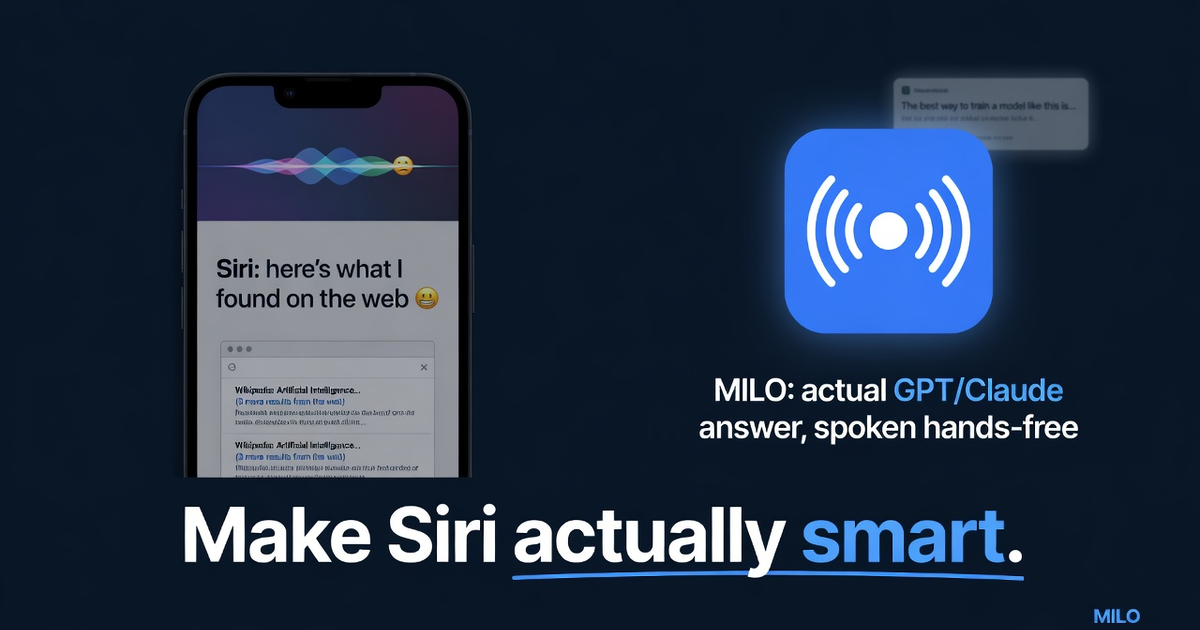
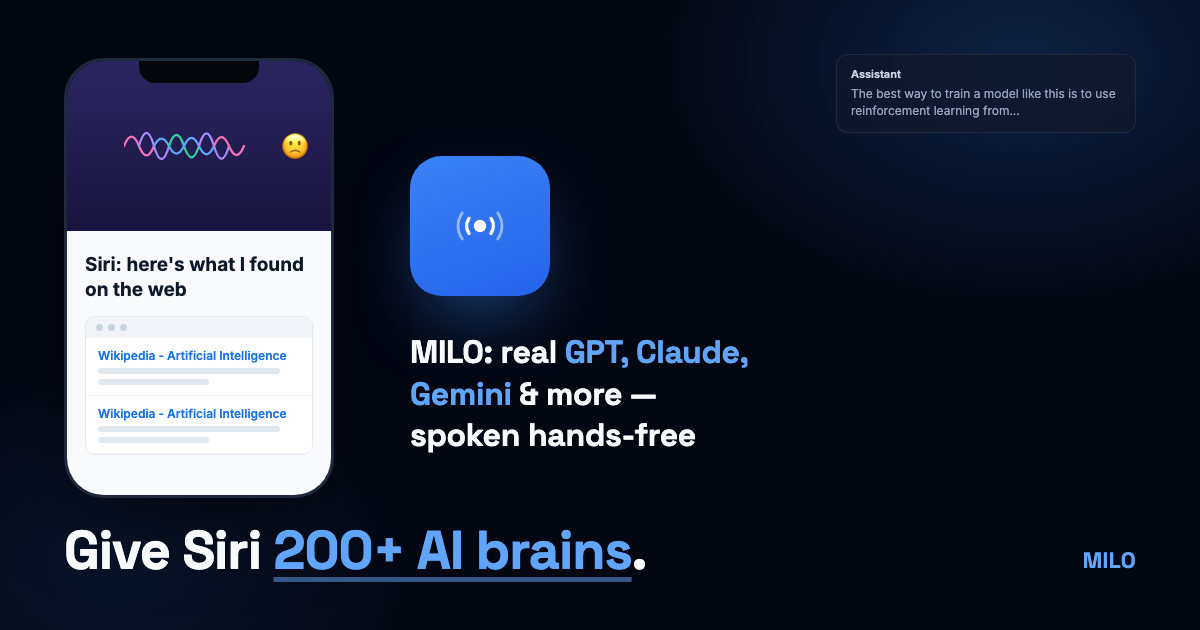
fix(og): update og-image to match current 200+ models messaging (#15)
The image still said "actual GPT/Claude answer" and "Make Siri
actually smart", both superseded by the current hero copy
("Give Siri 200+ AI brains") and the 8-provider/200+ model lineup.
Rebuilt the same Siri-vs-MILO composition with accurate copy and
updated the og:image:alt / twitter:image:alt text to match.

diff --git a/index.html b/index.html
@@ -18,7 +18,7 @@
       content="Give Siri 200+ AI brains — hands-free in the car. Ask GPT, Claude, Gemini, Apple Intelligence, or local Ollama from the lock screen, headphones, or CarPlay. One-time purchase ($8.99 USD in the US; Apple sets local pricing). No app. No typing."
     />
     <meta property="og:image" content="https://askmilo.pro/og-image.png" />
-    <meta property="og:image:alt" content="Siri: here’s what I found on the web 😬 vs MILO: actual GPT/Claude answer, spoken hands-free — Make Siri actually smart." />
+    <meta property="og:image:alt" content="Siri: here’s what I found on the web 🙁 vs MILO: real GPT, Claude, Gemini & more, spoken hands-free — Give Siri 200+ AI brains." />
     <meta name="twitter:card" content="summary_large_image" />
     <meta name="twitter:creator" content="@luongnv89" />
     <meta name="twitter:url" content="https://askmilo.pro/" />
@@ -28,7 +28,7 @@
       content="Give Siri 200+ AI brains — hands-free in the car. Ask GPT, Claude, Gemini, Apple Intelligence, or local Ollama from the lock screen, headphones, or CarPlay. One-time purchase ($8.99 USD in the US; Apple sets local pricing). No app. No typing."
     />
     <meta name="twitter:image" content="https://askmilo.pro/og-image.png" />
-    <meta name="twitter:image:alt" content="Siri: here’s what I found on the web 😬 vs MILO: actual GPT/Claude answer, spoken hands-free — Make Siri actually smart." />
+    <meta name="twitter:image:alt" content="Siri: here’s what I found on the web 🙁 vs MILO: real GPT, Claude, Gemini & more, spoken hands-free — Give Siri 200+ AI brains." />
     <link rel="manifest" href="/site.webmanifest" />
     <link rel="icon" type="image/svg+xml" href="/favicon.svg" />
     <link rel="icon" type="image/png" href="/favicon-32x32.png" sizes="32x32" />
